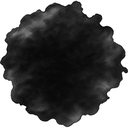
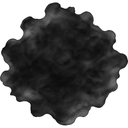
Canvas: swap in new gold and ink blot art
Claude-Session: https://claude.ai/code/session_01P3d8ZTZshbTSJw1MMxChow

diff --git a/sw.js b/sw.js
@@ -1,5 +1,5 @@
 /* Offline support. Bump VERSION whenever app files change so installed copies update. */
-var VERSION='gs-v56';
+var VERSION='gs-v57';
 var SHELL=['./','index.html','styles.css','app.js','manifest.webmanifest','icons/icon-192.png','icons/icon-512.png','icons/apple-touch-icon.png','art/library-light.png','art/library-dark.png','art/stroke-long-ink.png','art/stroke-long-gold.png','art/stroke-short-ink.png','art/stroke-short-gold.png','art/stroke-wave-ink.png','art/stroke-wave-gold.png','art/quill-ink.png','art/quill-gold.png','art/birch-trunk.png','art/vine.png','art/gold.png','art/blot.png'];
 self.addEventListener('install',function(e){
   e.waitUntil(caches.open(VERSION).then(function(c){return c.addAll(SHELL)}).then(function(){return self.skipWaiting()}));
